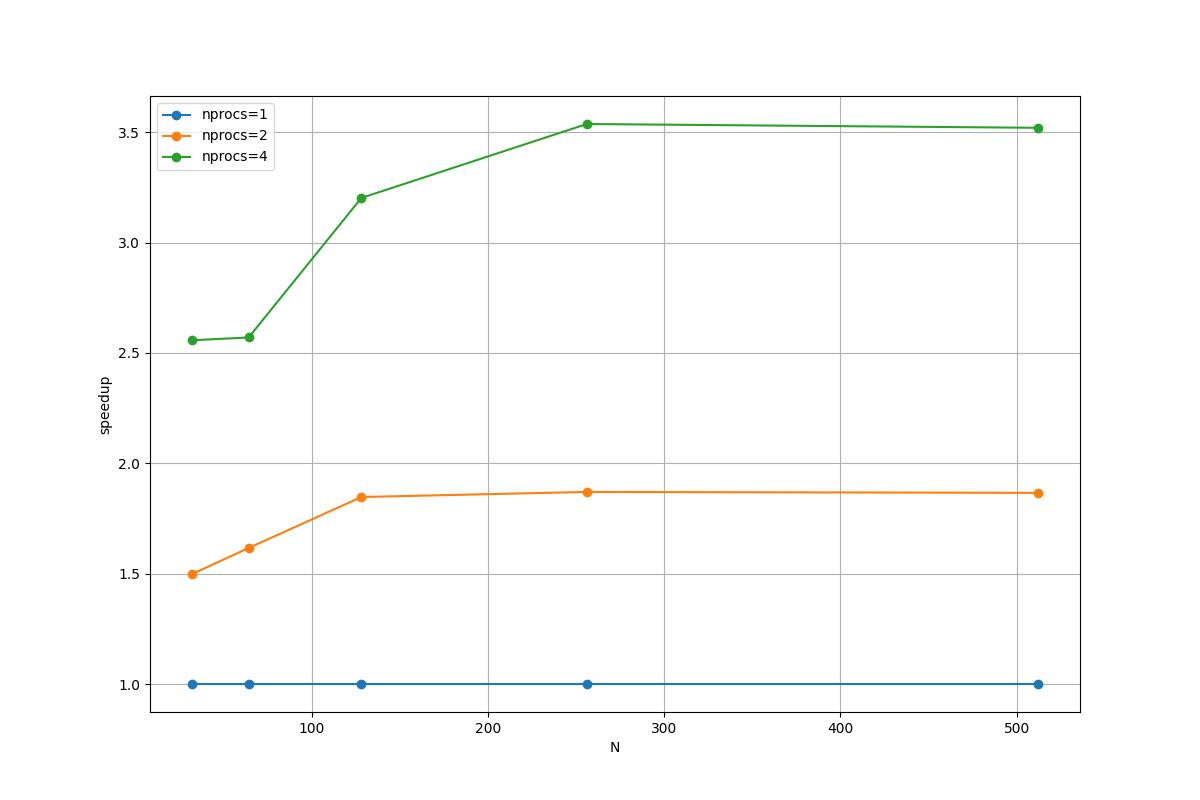
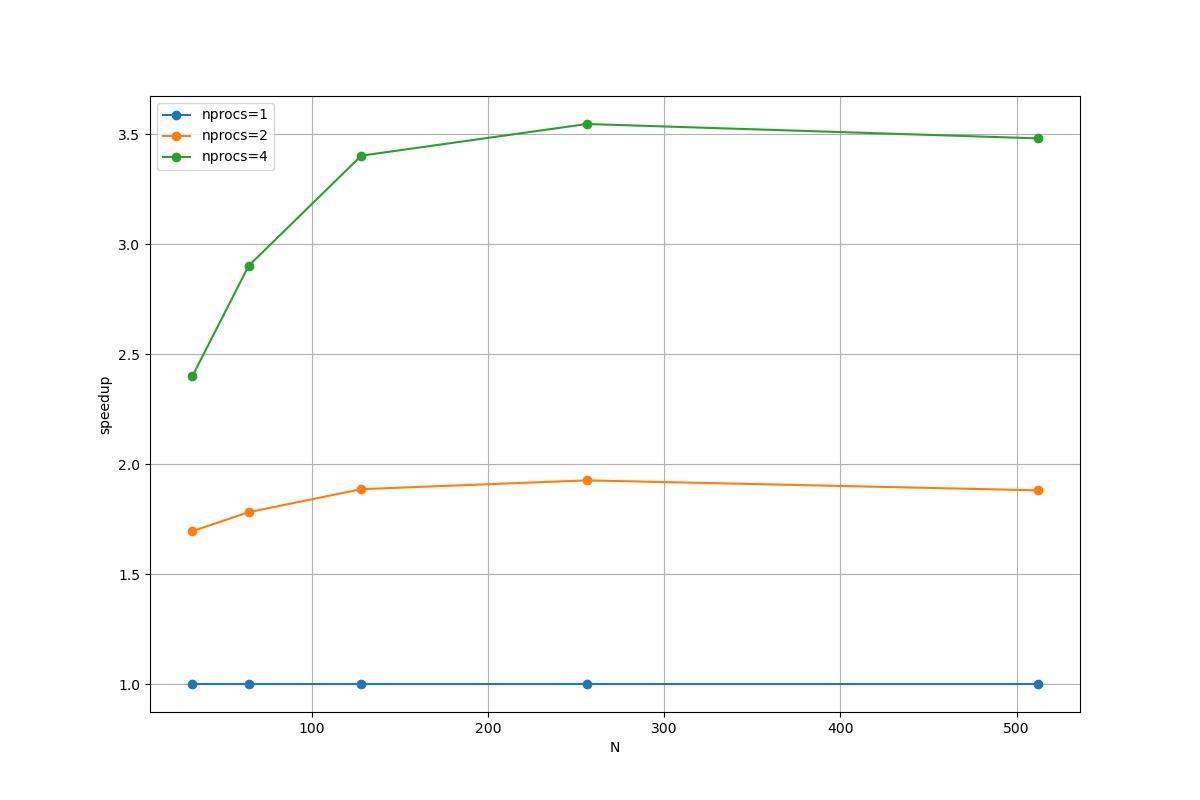
Refactor project to use std::format instead of fmt library; remove fmt submodule and update CMake configuration

diff --git a/src/solver/solve.cpp b/src/solver/solve.cpp
@@ -1,11 +1,11 @@
-#define FMT_HEADER_ONLY
 #include "mpi.h"
 #include "param.h"
 #include "solver.h"
 #include <cmath>
 #include <fstream>
 #include <iostream>
-#include <fmt/core.h>
+#include <format>
+
 
 /** \file    solve.cpp
  *  \brief   Implementation of the solver functions
@@ -85,7 +85,7 @@ double solve(int N, int rank, int nprocs, std::shared_ptr<double> err_max, std::
     double end_time = MPI_Wtime();
 
     // Data Export (One file per process for 2D reconstruction)
-    std::ofstream file(fmt::format("T_data_{}_{}.txt", coords[0], coords[1]));
+    std::ofstream file(std::format("T_data_{}_{}.txt", coords[0], coords[1]));
     for(int i = 1; i < Nx_ghost - 1; i++) {
         for(int j = 1; j < Ny_ghost - 1; j++) {
             file << T[i * Ny_ghost + j] << (j == Ny_ghost - 2 ? "" : " ");
